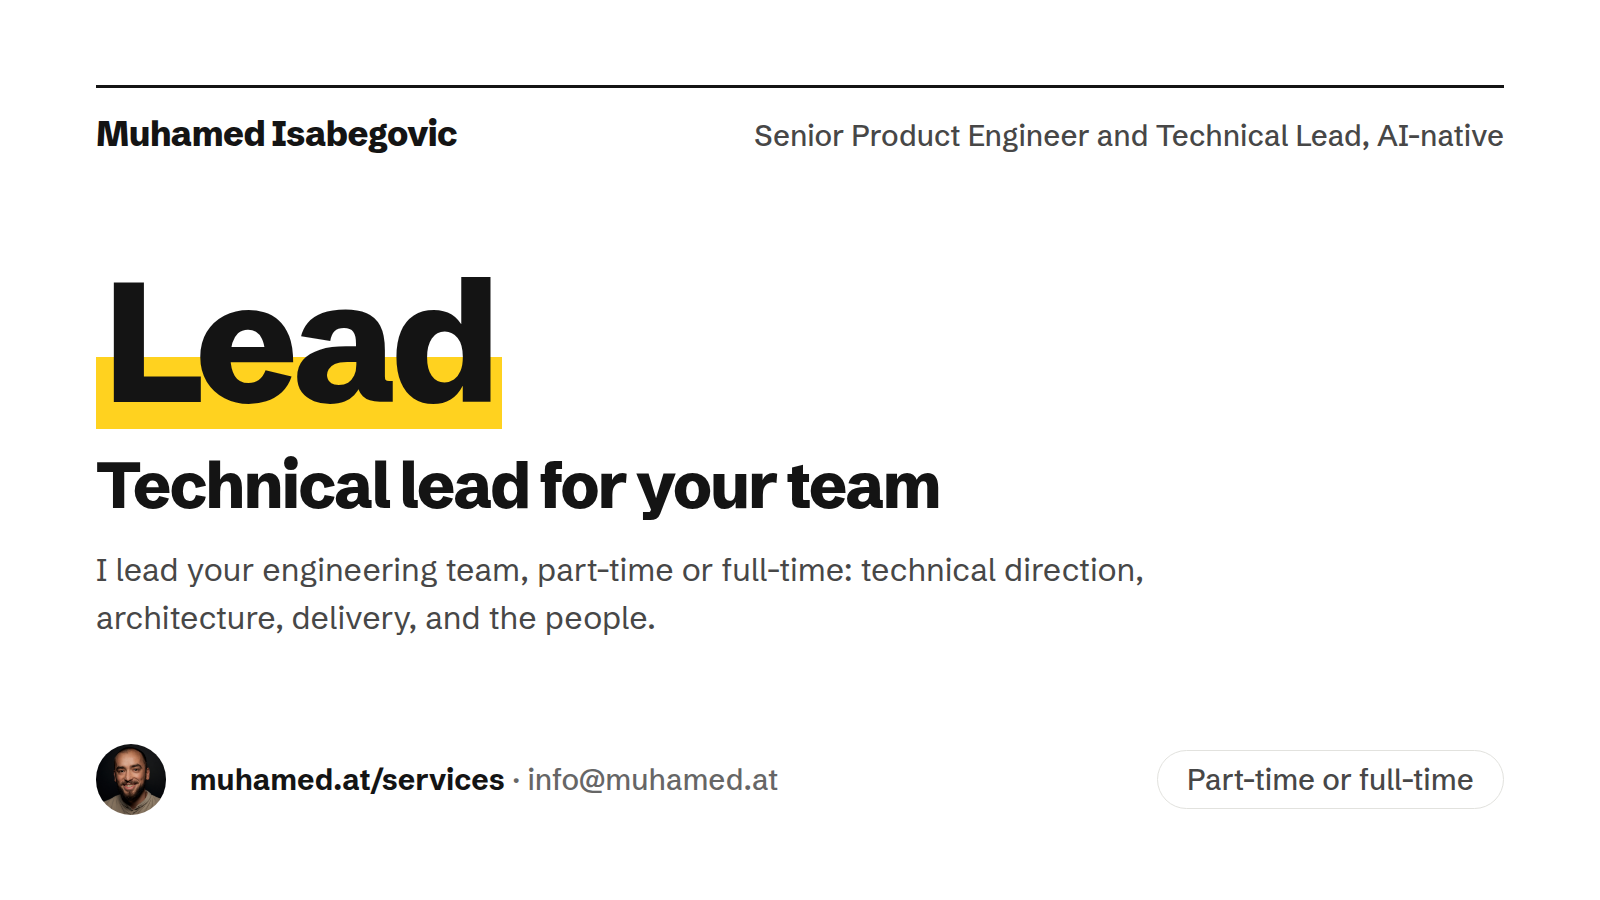
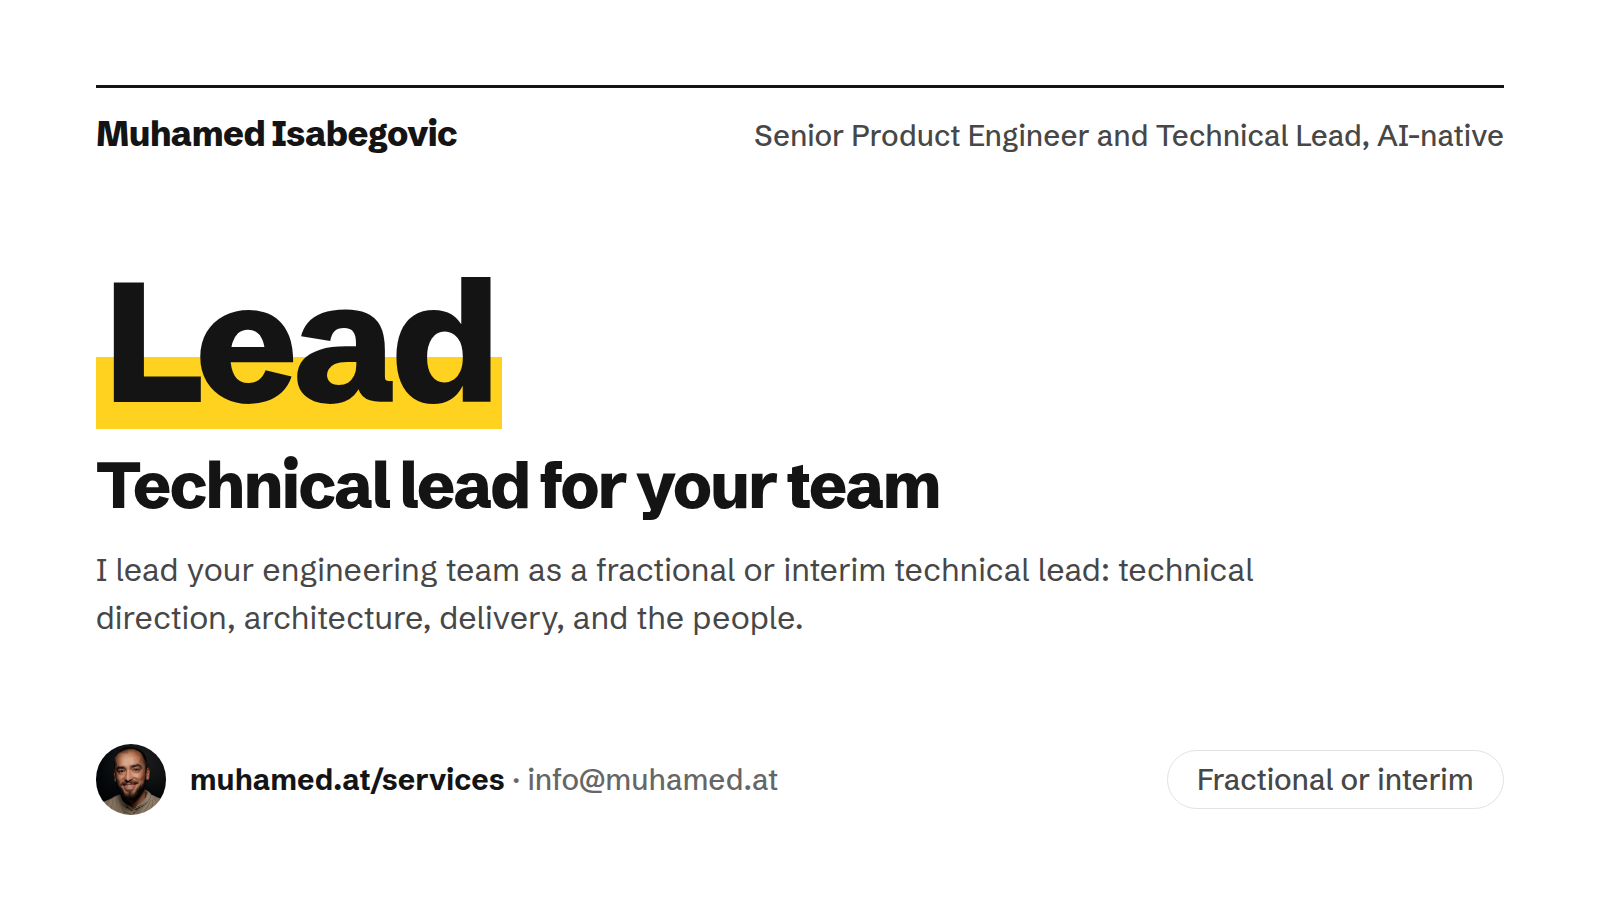
site: a copy-address button beside the email; a share preview for every project page
For visitors without a mail app, and for links shared on LinkedIn and X.

ADR: wiki/muhamed.github.io/adrs/project-profile-pages.md (share previews); homepage ADR (contact)

Claude-Session: https://claude.ai/code/session_01YYCJVDJXAKbWS4dMm6RkL1

Changed region(s): [[0.0625, 0.6222, 0.7812, 0.7156], [0.7188, 0.84, 0.9375, 0.9022]]

diff --git a/.github/scripts/render-social-images.js b/.github/scripts/render-social-images.js
@@ -1,13 +1,29 @@
 const path = require('path');
 const fs = require('fs');
-const { chromium } = require('playwright-core');
+// playwright-core when installed, else puppeteer-core (the same Chrome either way).
+let launchBrowser;
+try {
+  const { chromium } = require('playwright-core');
+  launchBrowser = async (opts) => {
+    const b = await chromium.launch(opts);
+    return { page: (w, h) => b.newPage({ viewport: { width: w, height: h } }), close: () => b.close() };
+  };
+} catch (e) {
+  const puppeteer = require('puppeteer-core');
+  launchBrowser = async (opts) => {
+    const b = await puppeteer.launch({ ...opts, args: [...(opts.args || []), '--no-sandbox'] });
+    return { page: async (w, h) => { const p = await b.newPage(); await p.setViewport({ width: w, height: h }); return p; }, close: () => b.close() };
+  };
+}
 
 // Renders the share preview, the LinkedIn and X headers and the service post
 // images into files/images/social/. Run from the repository root:
 //   CHROME=/path/to/chrome node .github/scripts/render-social-images.js
 // ONLY=<file name> renders just that image and leaves the others untouched.
-// Needs playwright-core. Copy comes from files/_data/home.yml and services.yml;
-// update it here when the services change.
+// Needs playwright-core or puppeteer-core. Copy comes from
+// files/_data/home.yml and services.yml; update it here when the services
+// change. Project cards read each profile in files/_projects/ (its title and
+// lead, else its entry's outcome or text in home.yml) and its thumbnail.
 const SITE = path.join(__dirname, '..', '..', 'files');
 const OUT = path.join(SITE, 'images/social');
 fs.mkdirSync(OUT, { recursive: true });
@@ -37,7 +53,7 @@ h1, h2 { font-weight: 800; letter-spacing: -.035em; line-height: .98; text-wrap:
 
 const services = [
   { slug: 'build', name: 'Build', title: 'Hands-on product engineering', text: 'I join your team as a senior engineer and build the product or feature end to end, from spec to production.', format: 'Embedded, part-time or full-time' },
-  { slug: 'lead', name: 'Lead', title: 'Technical lead for your team', text: 'I lead your engineering team, part-time or full-time: technical direction, architecture, delivery, and the people.', format: 'Part-time or full-time' },
+  { slug: 'lead', name: 'Lead', title: 'Technical lead for your team', text: 'I lead your engineering team as a fractional or interim technical lead: technical direction, architecture, delivery, and the people.', format: 'Fractional or interim' },
   { slug: 'review', name: 'Review', title: 'Architecture review', text: 'A short, fixed-scope look at your codebase and system: what holds, what will break, and what to fix first.', format: 'Fixed scope, one to two weeks' },
   { slug: 'ai-native', name: 'AI-native', title: 'Make your company AI-native', text: 'How you build and what you build. I set up a knowledge base your people and agents work from, with architecture rules checked in CI, and build AI features into your product that hold up in production, using open-source tools I build and teach.', format: 'Workshops, then setup in your codebase' },
 ];
@@ -99,6 +115,48 @@ function header(w, h, safeLeft) {
   </div>`;
 }
 
+// Project profiles: one share card per page in files/_projects/, in the
+// share card's layout: the project and its one-liner on the left, its
+// thumbnail on the right.
+const homeYml = fs.readFileSync(path.join(SITE, '_data/home.yml'), 'utf8');
+const field = (text, key) => { const m = text.match(new RegExp('^' + key + ': *"?(.*?)"?$', 'm')); return m ? m[1] : null; };
+const entryLine = (key) => {
+  // The block of the open_source (name:) or side_projects (id:) entry, and its outcome or text.
+  const start = homeYml.search(new RegExp('^  - (name|id): ' + key.replace(/[.*+?^${}()|[\]\\]/g, '\\$&') + '$', 'm'));
+  if (start < 0) return null;
+  const block = homeYml.slice(start).split(/\n  - /)[0];
+  const outcome = block.match(/^    outcome: (.*)$/m);
+  if (outcome) return outcome[1];
+  const text = block.match(/^    text: >-\n((?:      .*\n?)+)/m);
+  return text ? text[1].replace(/\s+/g, ' ').replace(/<[^>]+>/g, '').trim() : null;
+};
+const escapeHtml = (t) => t.replace(/&/g, '&amp;').replace(/</g, '&lt;');
+const projects = fs.readdirSync(path.join(SITE, '_projects')).filter((f) => f.endsWith('.md')).map((f) => {
+  const fm = fs.readFileSync(path.join(SITE, '_projects', f), 'utf8').split(/^---$/m)[1];
+  return { slug: f.replace(/\.md$/, ''), title: field(fm, 'title'), lead: field(fm, 'lead') || entryLine(field(fm, 'home_key')), thumb: field(fm, 'thumb') };
+});
+
+function projectCard(pr, w, h) {
+  // The largest copy of the thumbnail there is (screenshots of usput.ba stop at 1440).
+  const sized = ['-1600', '-1440', '-800'].map((w) => path.join(SITE, pr.thumb.replace(/^\//, '') + w + '.webp'));
+  const thumb = 'file://' + (sized.find((f) => fs.existsSync(f)) || sized[0]);
+  const n = pr.title.length;
+  const size = n <= 8 ? 80 : n <= 14 ? 68 : n <= 20 ? 58 : 56;
+  return `<div class="stage" style="--w:${w}px;--h:${h}px;display:grid;grid-template-columns:1fr 520px;">
+    <div style="padding:64px 48px 56px 72px;display:grid;grid-template-rows:auto 1fr auto">
+      <div class="rule" style="padding-top:18px"><span class="wordmark" style="font-size:26px">Muhamed Isabegovic</span></div>
+      <div style="align-self:center">
+        <h1 style="font-size:${size}px;${n <= 20 ? 'white-space:nowrap;' : ''}"><mark>${escapeHtml(pr.title)}</mark></h1>
+        <p class="muted" style="font-size:24px;line-height:1.45;margin-top:22px;display:-webkit-box;-webkit-line-clamp:4;-webkit-box-orient:vertical;overflow:hidden">${escapeHtml(pr.lead || '')}</p>
+      </div>
+      <div class="muted" style="font-size:22px;font-weight:500"><b style="color:var(--ink)">muhamed.at/projects/${pr.slug}</b></div>
+    </div>
+    <div style="background:#f3f3f1;display:grid;place-items:center;padding:40px">
+      <img src="${thumb}" alt="" style="width:100%;aspect-ratio:16/10;object-fit:cover;object-position:top;border:1px solid var(--line);border-radius:8px;box-shadow:0 24px 48px -24px rgba(20,20,20,.35)">
+    </div>
+  </div>`;
+}
+
 const jobs = [
   ['share.png', 1200, 630, share(1200, 630)],
   ['goatconf-2027.png', 1200, 630, goatconfNote(1200, 630)],
@@ -108,12 +166,13 @@ const jobs = [
     [`service-${s.slug}-linkedin.png`, 1200, 627, servicePost(s, 1200, 627)],
     [`service-${s.slug}-x.png`, 1600, 900, servicePost(s, 1600, 900)],
   ]),
+  ...projects.map((pr) => [`project-${pr.slug}.png`, 1200, 630, projectCard(pr, 1200, 630)]),
 ];
 
 (async () => {
-  const b = await chromium.launch({ executablePath: process.env.CHROME, args: ['--allow-file-access-from-files'] });
+  const b = await launchBrowser({ executablePath: process.env.CHROME, args: ['--allow-file-access-from-files'] });
   for (const [name, w, h, html] of jobs.filter(([n]) => !process.env.ONLY || n === process.env.ONLY)) {
-    const p = await b.newPage({ viewport: { width: w, height: h } });
+    const p = await b.page(w, h);
     const file = path.join(require('os').tmpdir(), 'render-social.html');
     fs.writeFileSync(file, `<!doctype html><html><head><meta charset="utf-8"><style>${base}</style></head><body>${html}</body></html>`);
     await p.goto('file://' + file, { waitUntil: 'load' });

diff --git a/files/assets/site.js b/files/assets/site.js
@@ -4,6 +4,35 @@
 (() => {
   const top = document.querySelector(".top");
   const toggle = top && top.querySelector(".menu-toggle");
+
+  // Copy-address buttons: shown only with this script, for visitors whose
+  // device has no mail app to open a mailto link.
+  document.querySelectorAll("[data-copy]").forEach((button) => {
+    const label = button.querySelector("[data-copy-label]");
+    const status = document.createElement("span");
+    status.className = "visually-hidden";
+    status.setAttribute("aria-live", "polite");
+    button.after(status);
+    button.hidden = false;
+    button.addEventListener("click", async () => {
+      const text = button.dataset.copy;
+      let done = false;
+      try { await navigator.clipboard.writeText(text); done = true; } catch (e) {
+        const area = Object.assign(document.createElement("textarea"), { value: text });
+        area.setAttribute("readonly", "");
+        area.style.cssText = "position:fixed;opacity:0";
+        document.body.append(area);
+        area.select();
+        try { done = document.execCommand("copy"); } catch (e2) {}
+        area.remove();
+      }
+      label.textContent = done ? "Copied" : text;
+      status.textContent = done ? `Copied ${text}` : `Select and copy ${text}`;
+      button.classList.toggle("is-copied", done);
+      clearTimeout(button.copyTimer);
+      button.copyTimer = setTimeout(() => { label.textContent = "Copy address"; button.classList.remove("is-copied"); status.textContent = ""; }, 2500);
+    });
+  });
   const panel = document.getElementById("site-menu");
   if (!top || !toggle || !panel) return;
 

diff --git a/files/assets/site.css b/files/assets/site.css
@@ -1158,3 +1158,15 @@ div.project-card-link { cursor: default; }
   .project-card .service-go { margin-top: 0.25rem; font-size: var(--t-small); }
   .project-card-link:hover .project-card-thumb { transform: none; box-shadow: none; }
 }
+
+/* Copy-address buttons beside the email address. */
+.copy-email { display: inline-flex; align-items: center; min-height: 36px; margin-left: 0.4rem; padding: 0.2rem 0.85rem; border: 1.5px solid currentColor; border-radius: 999px; background: transparent; color: inherit; font: inherit; font-size: var(--t-small); font-weight: 650; vertical-align: middle; cursor: pointer; transition: background-color 0.15s ease-out, color 0.15s ease-out; }
+.copy-email:hover { background: var(--ink); border-color: var(--ink); color: var(--paper); }
+.copy-email.is-copied { background: var(--ink); border-color: var(--ink); color: var(--yellow); }
+.closing .copy-email:hover { color: var(--yellow); }
+.contact-nomail { max-width: 48rem; margin-top: 2rem; color: var(--ink-2); }
+.contact-nomail a { color: var(--ink); text-decoration-color: var(--yellow); text-decoration-thickness: 2px; text-underline-offset: 0.2em; }
+.closing-mail-line { display: flex; flex-wrap: wrap; align-items: center; gap: 0.5rem 0.4em; }
+.closing-mail-line .copy-email { margin-left: 0.6rem; }
+.contact-nomail .copy-email { display: flex; width: fit-content; margin: 0.75rem 0 0; }
+@media (max-width: 640px) { .closing-mail-line .copy-email { margin-left: 0; } }

diff --git a/files/_includes/closing.html b/files/_includes/closing.html
@@ -17,6 +17,6 @@
       <p class="closing-text">{{ c.review.text }}</p>
       <a class="button button-dark" href="{{ site.baseurl }}{{ c.review.url }}">{{ c.review.cta }}{{ arr }}</a>
     </div>
-    <p class="closing-mail-line">Or email <a class="closing-mail" href="mailto:{{ c.email }}">{{ c.email }}</a></p>
+    <p class="closing-mail-line">Or email <a class="closing-mail" href="mailto:{{ c.email }}">{{ c.email }}</a> {% include copy-email.html email=c.email %}</p>
   </div>
 </section>

diff --git a/files/_includes/copy-email.html b/files/_includes/copy-email.html
@@ -1,0 +1,5 @@
+{%- comment -%}
+  A button that copies the address, for visitors without a mail app (a
+  mailto link does nothing for them). Hidden until site.js wires it up.
+{%- endcomment -%}
+<button type="button" class="copy-email" data-copy="{{ include.email | default: site.data.home.closing.email }}" hidden><span data-copy-label>Copy address</span></button>

diff --git a/log/log.md b/log/log.md
@@ -261,3 +261,5 @@
    by: agent
 - igre: Minolovac opens in English for everyone, on the owner's ask ("let's default to english"); the browser-language switch is gone, only a click on the language toggle is remembered, under a new key (`minolovac-lang-choice`), so the "bs" earlier versions saved on every first visit no longer applies. Checked: Bosnian browser with an old saved "bs" opens in English; clicking Bosnian or English persists across a reload.
    by: agent
+- site: on the owner's go ("do 1. And 2."): (1) a "Copy address" button beside the email in the band that ends every page, under the contact options ("No mail app on this device? Write to info@muhamed.at from any inbox.") and in the contact facts, for visitors whose device has no mail app; hidden without JavaScript, clipboard API with a fallback, "Copied" announced to screen readers; checked in Chrome that it copies the address. No reply-time line: that is the owner's promise to make. (2) a share preview per project page (1200x630 PNG, `images/social/project-<slug>.png`, set as each profile's `image:`; the hub's WebP replaced, as LinkedIn does not reliably show WebP), rendered by `.github/scripts/render-social-images.js`, which now reads each profile and its thumbnail and runs on playwright-core or puppeteer-core; the Lead service post images re-rendered with "Fractional or interim".
+   by: agent

diff --git a/files/_pages/contact.md b/files/_pages/contact.md
@@ -27,8 +27,10 @@ description: How to reach Muhamed Isabegovic about building something with your 
   </section>
 </div>
 
+<p class="contact-nomail">No mail app on this device? Write to <a href="mailto:info@muhamed.at">info@muhamed.at</a> from any inbox. {% include copy-email.html %}</p>
+
 <dl class="contact-facts">
-  <div><dt>Email</dt><dd><a href="mailto:info@muhamed.at">info@muhamed.at</a></dd></div>
+  <div><dt>Email</dt><dd><a href="mailto:info@muhamed.at">info@muhamed.at</a> {% include copy-email.html %}</dd></div>
   <div><dt>How I work</dt><dd>Through my own company, Isabegovic Muhamed e.U.</dd></div>
   <div><dt>Location</dt><dd>Vienna, Austria. Remote across Europe, on site in the DACH region.</dd></div>
   <div><dt>CV</dt><dd><a href="/cv/">View my CV</a>, also as a <a href="/cv/Muhamed_Isabegovic_CV.pdf" download>three-page PDF</a></dd></div>

diff --git a/files/_projects/knowledge-bases.md b/files/_projects/knowledge-bases.md
@@ -6,7 +6,7 @@
 title: How I work with knowledge bases
 description: How Muhamed Isabegovic works with coding agents, with decisions written down, anchored to the code they govern, checked in CI and read by agents before they write, across brain, pi-brain, enola, enola-guides and tabula.
 thumb: /images/projects/knowledge-bases/thumb
-image: /videos/projects/knowledge-bases/promo-poster.webp
+image: /images/social/project-knowledge-bases.png
 lead: Decisions written down, anchored to the code they govern, checked in CI, and read by agents before they write. The method I run my own work on, and what I set up for teams.
 cta: { label: Set this up in your team, url: /services/#ai-native }
 links:

diff --git a/files/_projects/post-dayton.md b/files/_projects/post-dayton.md
@@ -9,6 +9,7 @@
 title: Post-Dayton BiH
 home_key: card-game
 description: Post-Dayton BiH, a political strategy card game by Muhamed Isabegovic about a career in Bosnia and Herzegovina's politics, on a pure TypeScript engine with 4,161 tests and 42 decision records.
+image: /images/social/project-post-dayton.png
 thumb: /images/projects/post-dayton/thumb
 lead: A card game where you build a political career in the most complex country in the world. You see what each decision costs; the consequences stay hidden until after you decide.
 cta: { label: Play it, url: /igre/dejtonska-igra/ }

diff --git a/files/_projects/treasure-hunt.md b/files/_projects/treasure-hunt.md
@@ -7,6 +7,7 @@
 title: hunt.rubyconf.at
 home_key: treasurehunt
 description: hunt.rubyconf.at, the location-based treasure hunt Muhamed Isabegovic built for RubyConf Austria 2026 in Vienna, now open source for any conference to rebrand and self-host.
+image: /images/social/project-treasure-hunt.png
 thumb: /images/projects/treasure-hunt/thumb
 lead: A treasure hunt across Vienna for RubyConf Austria 2026, where every clue unlocks only near its real place. Now open source, so any conference can run its own.
 cta: { label: Visit hunt.rubyconf.at, url: "https://hunt.rubyconf.at" }

diff --git a/files/_projects/usput.md b/files/_projects/usput.md
@@ -10,6 +10,7 @@
 title: Usput.ba
 home_key: usput
 description: Usput.ba, a travel guide to Bosnia and Herzegovina built and run by Muhamed Isabegovic, with audio tours, AI content checked against real places, and mine safety built in.
+image: /images/social/project-usput.png
 thumb: /images/projects/usput/home
 lead: A travel guide to Bosnia and Herzegovina, from the Una to the Drina, built from real places, with audio tours and mine safety built in.
 cta: { label: Visit usput.ba, url: "https://usput.ba" }

diff --git a/files/_projects/enola-guides.md b/files/_projects/enola-guides.md
@@ -6,6 +6,7 @@
 title: enola-guides
 home_key: enola-guides
 description: enola-guides, a Ruby gem by Muhamed Isabegovic for working with coding agents in a codebase that has decisions, with architecture laws checked in CI, decisions anchored to code, and hooks that make agents read before they write.
+image: /images/social/project-enola-guides.png
 thumb: /images/projects/enola-guides/thumb
 cta: { label: Set this up in your team, url: /services/#ai-native }
 links:
